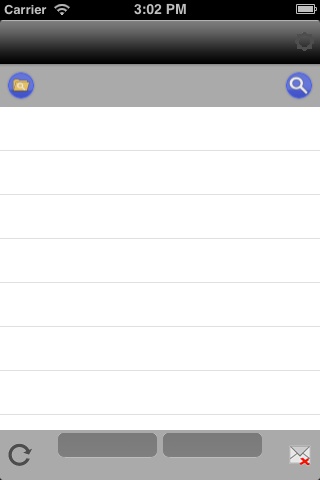
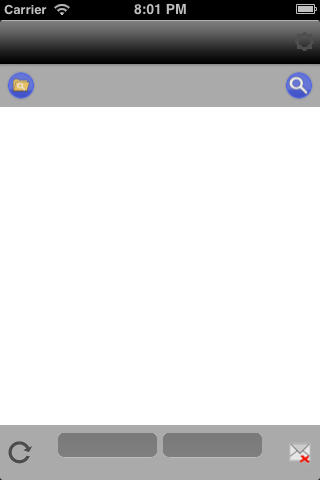
Re-generate launch images.

Changed region(s): [[0.0, 0.875, 1.0, 0.9688], [0.4688, 0.0, 0.5, 0.0312]]

diff --git a/MailCleaner/MsgListView.m b/MailCleaner/MsgListView.m
@@ -10,6 +10,7 @@
 #import "EmailInfoActionView.h"
 #import "UIHelper.h"
 #import "LocalizationHelper.h"
+#import "AppHelper.h"
 
 static CGFloat const MSG_LIST_LOAD_MORE_BUTTON_FONT = 13.0f;
 static CGFloat const MSG_LIST_LOAD_MORE_BUTTON_MARGIN = 5.0f;
@@ -78,6 +79,11 @@ static CGFloat const MSG_LIST_LOAD_MORE_FOOTER_HEIGHT = 50.0f;
 			[UIScreen mainScreen].bounds.size.width,MSG_LIST_LOAD_MORE_FOOTER_HEIGHT)] autorelease];
 		[self.loadMoreMsgsTableFooter addSubview:self.loadMoreStatusLabel];
 		[self.loadMoreMsgsTableFooter addSubview:self.loadMoreButton];
+		
+		if([AppHelper generatingLaunchScreen])
+		{
+			self.loadMoreMsgsTableFooter.hidden = TRUE;
+		}
 
 		
 		self.msgListTableView.tableFooterView = self.loadMoreMsgsTableFooter;
